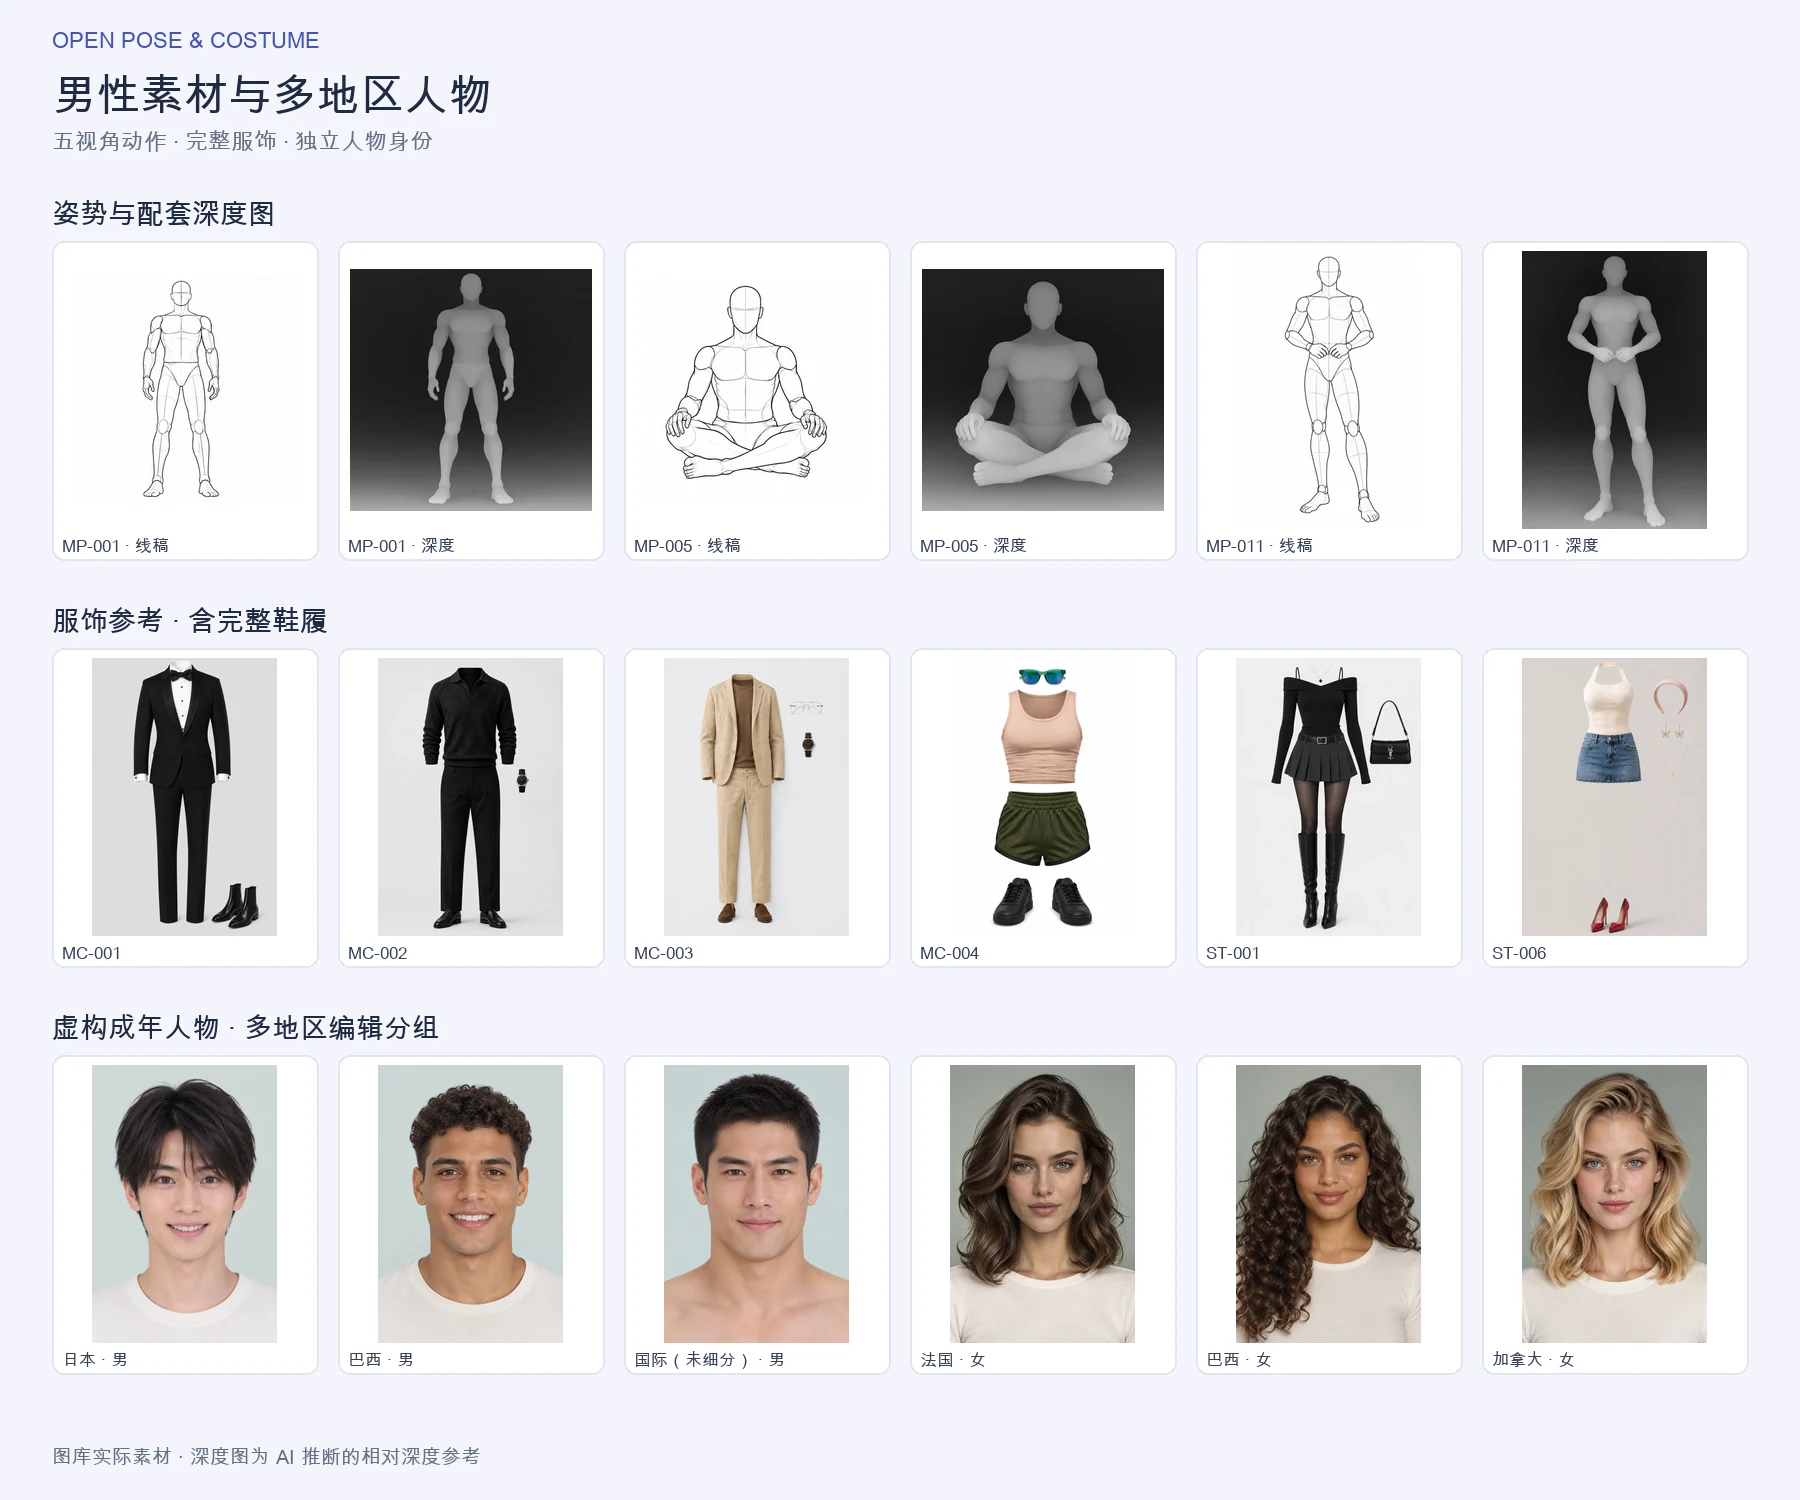
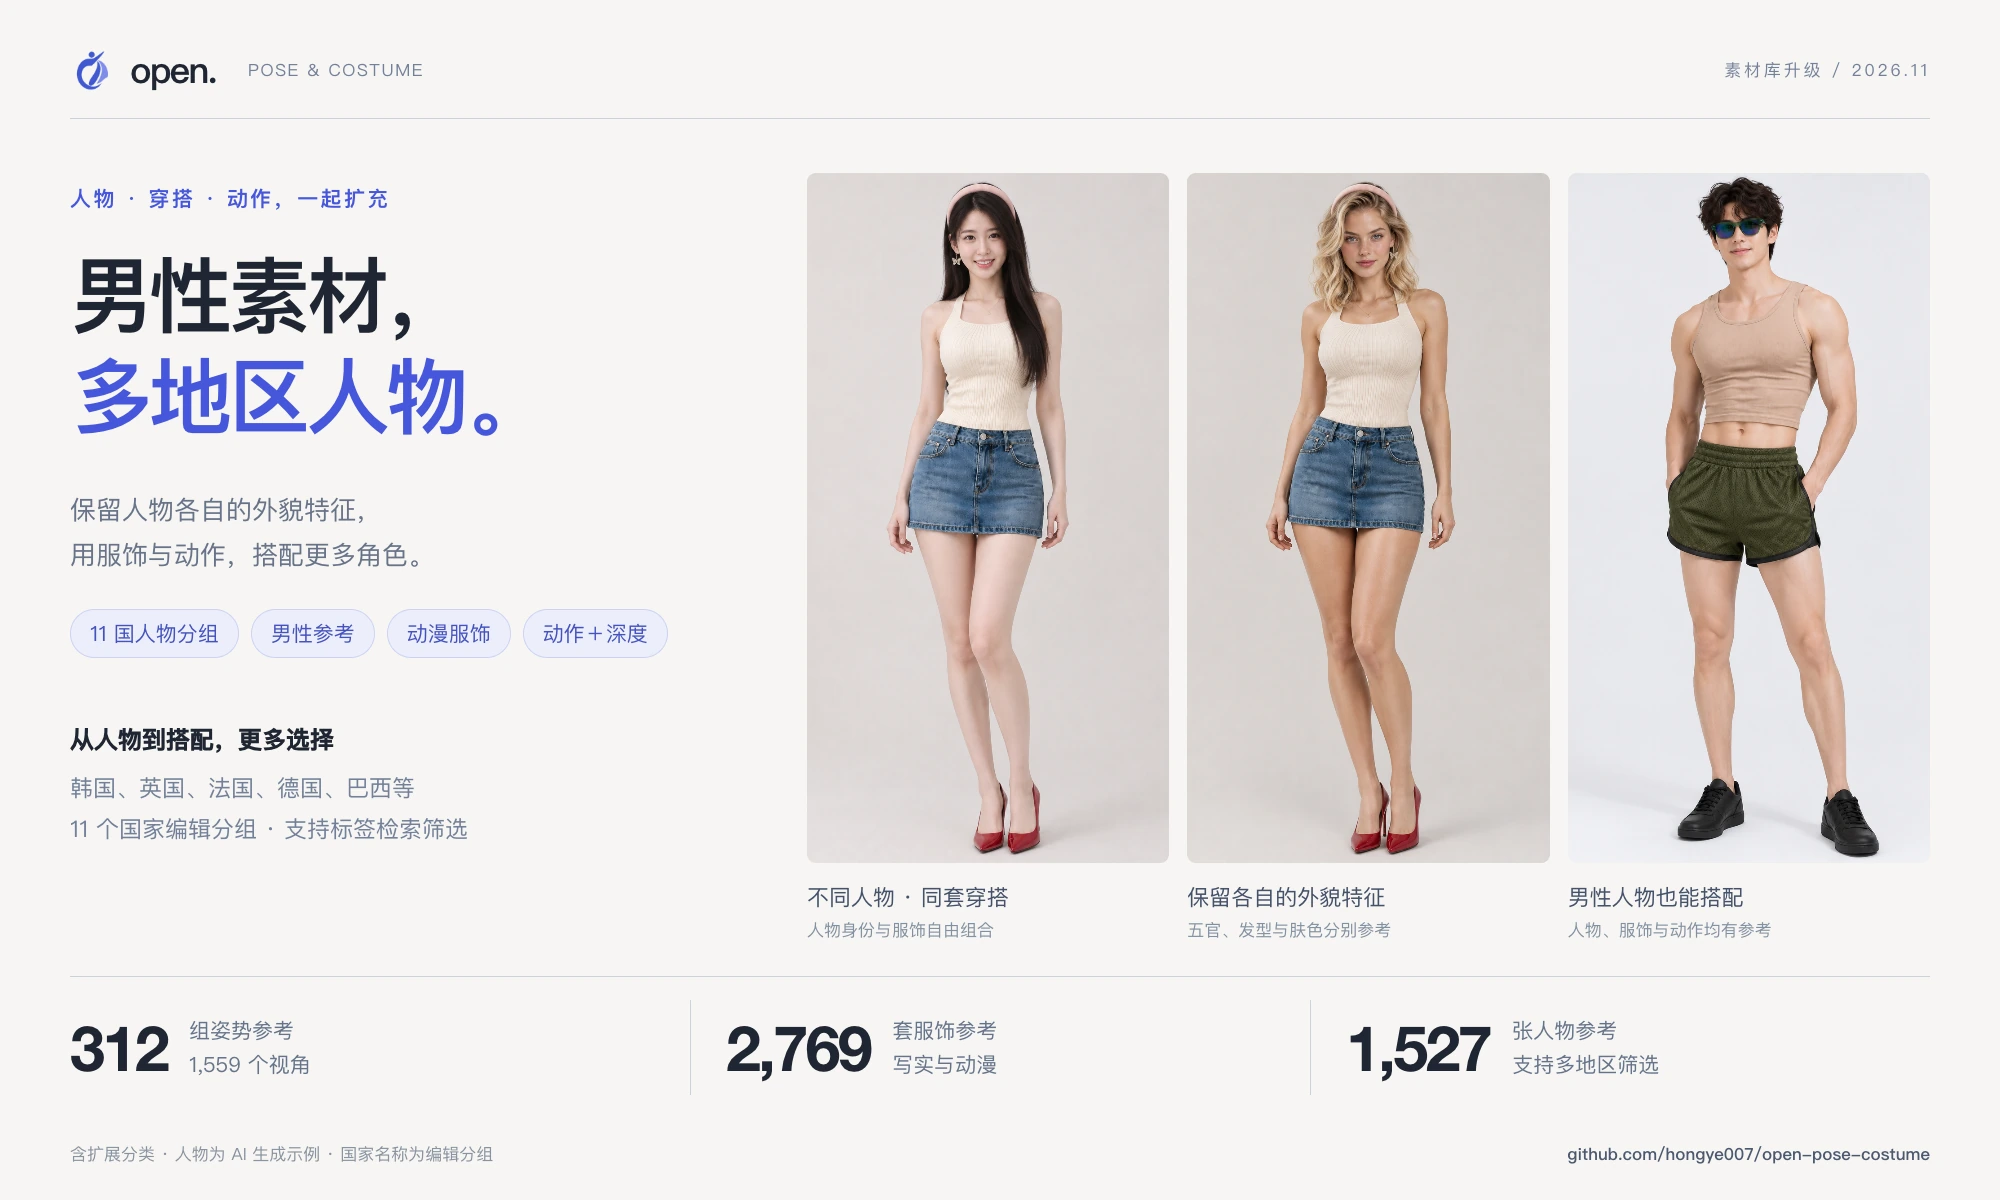
中英文 README 素材库展示图改为 5:3

diff --git a/README.en.md b/README.en.md
@@ -64,7 +64,7 @@ Find inspiration, combine references and generate characters in one place.
 
 [Browse model/dance poses ↗](https://hongye007.github.io/open-pose-costume/?lang=en&view=pose&collection=custom&tag=dance#collection) · [Browse male poses ↗](https://hongye007.github.io/open-pose-costume/?lang=en&view=pose&collection=custom&tag=male#collection) · [Browse male outfits ↗](https://hongye007.github.io/open-pose-costume/?lang=en&view=costume&collection=custom&tag=male&style=photo#collection) · [Browse custom portraits ↗](https://hongye007.github.io/open-pose-costume/?lang=en&view=character&collection=custom#collection)
 
-![New male pose line art and paired depth, complete outfits and regional fictional adult portraits](docs/images/library-expansion-20261102-en.webp)
+![Male references and regional portraits: three AI-generated outfit examples, 11 editorial country groups and current library counts (5:3)](docs/images/library-expansion-20261102-en.webp)
 
 ## Browse and save
 

diff --git a/README.md b/README.md
@@ -64,7 +64,7 @@
 
 [浏览模特舞蹈姿势 ↗](https://hongye007.github.io/open-pose-costume/?lang=zh&view=pose&collection=custom&tag=dance#collection) · [浏览男性姿势 ↗](https://hongye007.github.io/open-pose-costume/?lang=zh&view=pose&collection=custom&tag=male#collection) · [浏览男性服饰 ↗](https://hongye007.github.io/open-pose-costume/?lang=zh&view=costume&collection=custom&tag=male&style=photo#collection) · [浏览自建人物 ↗](https://hongye007.github.io/open-pose-costume/?lang=zh&view=character&collection=custom#collection)
 
-![本次扩充的男性姿势线稿与深度图、完整服饰及多地区虚构成年人物参考](docs/images/library-expansion-20261102-zh.webp)
+![男性素材与多地区人物：三个 AI 生成搭配示例、11 国人物分组及当前参考库数量（5:3）](docs/images/library-expansion-20261102-zh.webp)
 
 ## 查找与收藏
 
